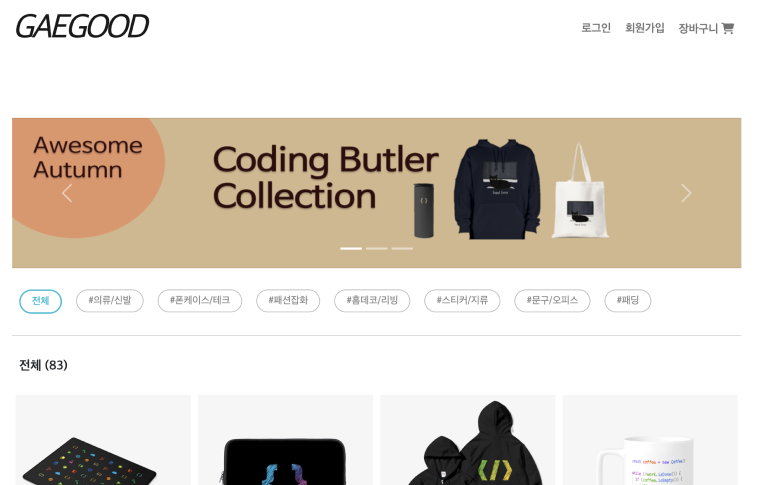
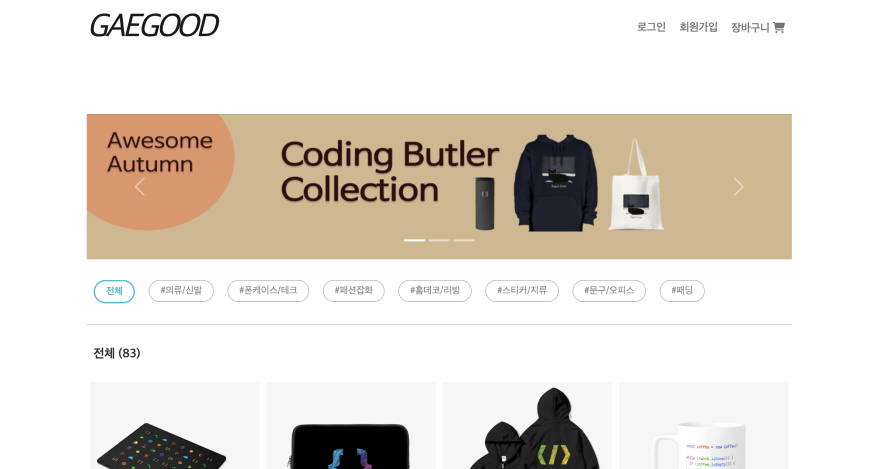
feat: 캐러셀 이미지 교체(너비 및 높이 통일), css 수정

diff --git a/src/components/ProjectsPage/Carousel/Carousel.tsx b/src/components/ProjectsPage/Carousel/Carousel.tsx
@@ -49,7 +49,7 @@ export const Carousel = () => {
       </div>
       <div
         className="carousel-image-container"
-        style={{ transform: `translateX(-${currentIndex * 50}%)` }}
+        style={{ transform: `translateX(-${currentIndex * 100}%)` }}
       >
         {imageData.map((elem, index) => {
           return (
@@ -58,8 +58,8 @@ export const Carousel = () => {
               key={elem.title}
               src={elem.src}
               alt={elem.title}
-              width={elem.size.width}
-              height={elem.size.height}
+              width={882}
+              height={469}
             />
           );
         })}

diff --git a/src/styles/carousel.scss b/src/styles/carousel.scss
@@ -27,18 +27,16 @@
 .carousel-image-container {
   display: flex;
   transition: all 0.3s ease-out;
-  // align-items: center;
-  // height: 100%;
-  // overflow-x: auto;
+  align-items: center;
 }
+
 
 .carousel-image {
   transition: transform 0.5s ease;
 
-  // width: 31.3%;
+  width: 100%;
   flex-shrink: 0;
   flex-grow: 1;
-  margin-left: 2%;
 }
 
 .carousel-image.active {
